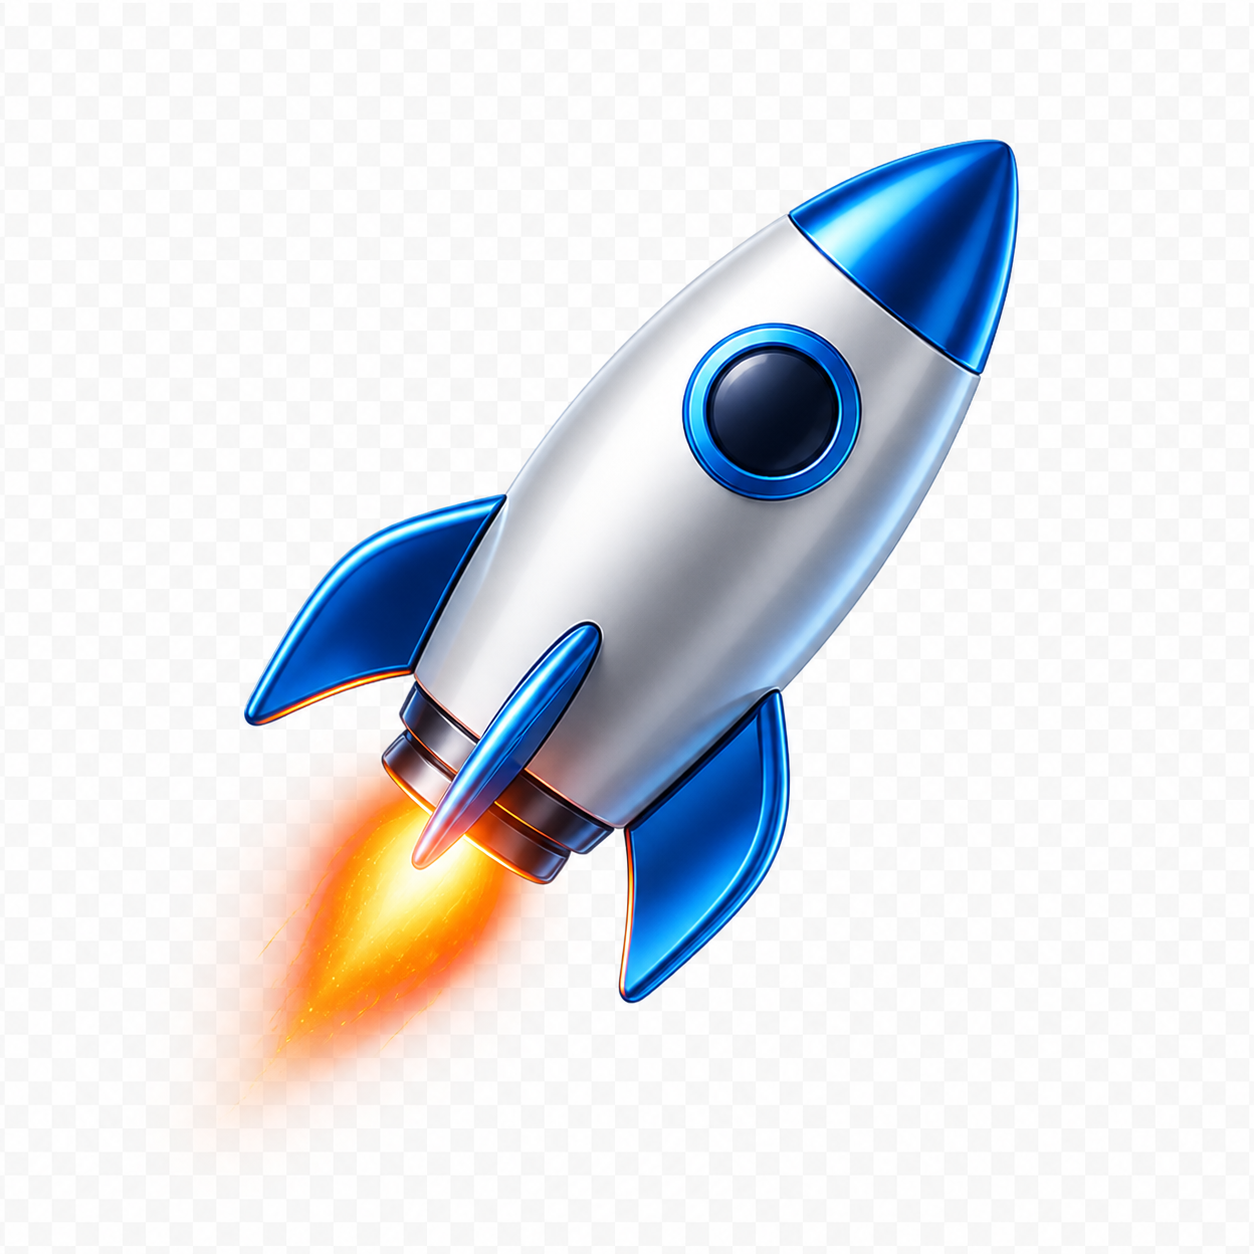
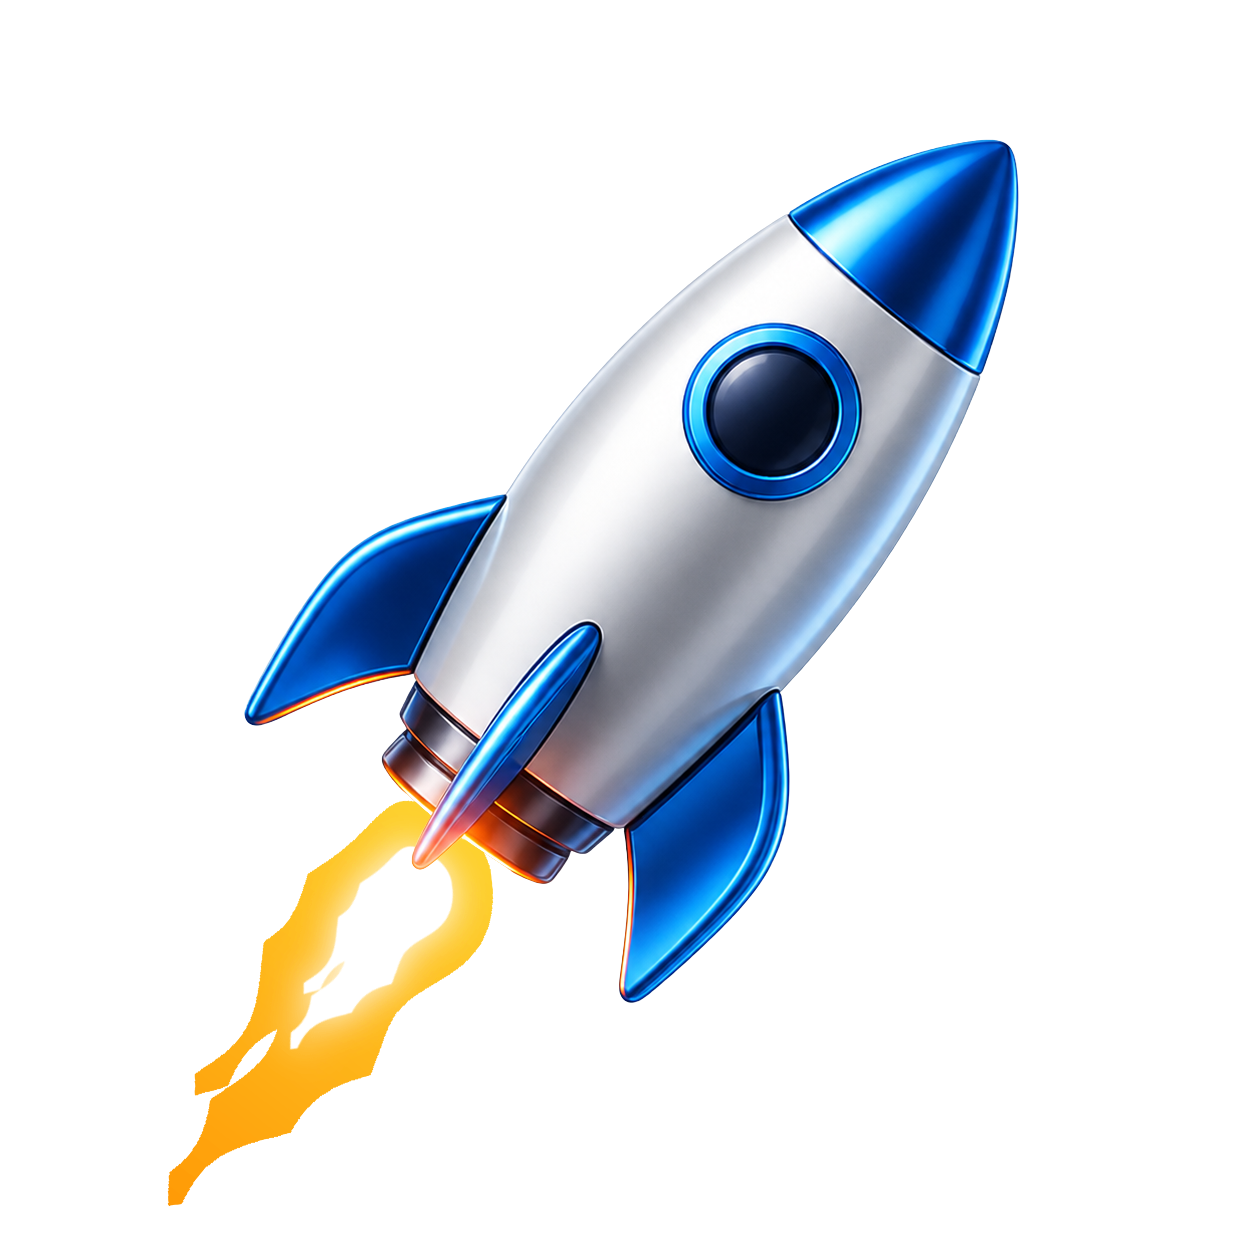
update img modal

Changed region(s): [[0.1244, 0.5909, 0.4354, 0.9641]]

diff --git a/src/components/Dashboard.tsx b/src/components/Dashboard.tsx
@@ -521,64 +521,63 @@ export default function Dashboard({
       className="fixed inset-0 z-[999] flex items-center justify-center p-4 overflow-hidden"
     >
       <div className="absolute inset-0 bg-[#0f172a]" />
-      {/* Animacje tła zostają bez zmian... */}
+      {/* BACKGROUND ANIMATIONS */}
       <motion.div animate={{ scale: [1, 1.2, 1], rotate: [0, 90, 0] }} transition={{ duration: 20, repeat: Infinity }} className="absolute -top-[20%] -left-[10%] w-[70%] h-[70%] bg-blue-600/30 rounded-full blur-[120px]" />
       <motion.div animate={{ scale: [1, 1.3, 1], rotate: [0, -90, 0] }} transition={{ duration: 15, repeat: Infinity, delay: 2 }} className="absolute -bottom-[20%] -right-[10%] w-[60%] h-[60%] bg-indigo-600/20 rounded-full blur-[120px]" />
 
       <motion.div 
-        initial={{ y: 50, opacity: 0, scale: 0.8, rotateX: 20 }}
-        animate={{ y: 0, opacity: 1, scale: 1, rotateX: 0 }}
-        exit={{ y: -50, opacity: 0, scale: 1.1 }}
-        transition={{ type: "spring", damping: 20 }}
-        className="relative max-w-2xl w-full bg-white/10 backdrop-blur-[40px] p-12 rounded-[4rem] shadow-[0_0_80px_rgba(0,0,0,0.5)] border border-white/20 text-center"
-        style={{ transformStyle: 'preserve-3d', perspective: '1000px' }}
+        initial={{ y: 50, opacity: 0, rotateX: 20 }}
+        animate={{ y: 0, opacity: 1, rotateX: 0 }}
+        className="relative max-w-2xl w-full bg-white/10 backdrop-blur-[30px] p-12 rounded-[4rem] shadow-2xl border border-white/20 text-center"
       >
-        {/* NOWY WYBÓR JĘZYKA Z FLAGAMI - Bardziej widoczny i luxury */}
-        <div className="flex justify-center gap-6 mb-10 pb-6 border-b border-white/10">
+        {/* PURE PNG LANGUAGE SWITCHER */}
+        <div className="flex justify-center gap-10 mb-12">
           {[
-            { lang: 'pl', flag: '/flaga_pl.jpg' }, // Ścieżka prosto do public
-            { lang: 'en', flag: '/flaga_en.jpg' }
+            { lang: 'pl', flag: '/flaga_pl.png' },
+            { lang: 'en', flag: '/flaga_en.png' }
           ].map((item) => (
             <motion.button
               key={item.lang}
-              whileHover={{ scale: 1.1, y: -2 }}
+              whileHover={{ scale: 1.15, y: -5 }}
               whileTap={{ scale: 0.95 }}
               onClick={() => i18n.changeLanguage(item.lang)}
-              className={`relative p-1 rounded-2xl transition-all ${
-                i18n.language === item.lang 
-                  ? 'bg-gradient-to-br from-blue-400 to-indigo-600 shadow-lg shadow-blue-500/30' 
-                  : 'bg-white/5 hover:bg-white/10 border border-white/10'
-              }`}
+              className="relative group p-2"
             >
               <img 
                 src={item.flag} 
                 alt={item.lang.toUpperCase()} 
-                className="w-16 h-10 object-cover rounded-xl shadow-inner border border-black/10"
+                // Czyste PNG z przezroczystością, bez kafelka i obramowania
+                className={`w-20 h-14 object-contain transition-all duration-300 ${
+                  i18n.language === item.lang 
+                    ? 'drop-shadow-[0_10px_25px_rgba(59,130,246,0.6)]' // Niebieski blask dla aktywnego
+                    : 'drop-shadow-[0_10px_20px_rgba(0,0,0,0.5)] group-hover:drop-shadow-[0_10px_25px_rgba(255,255,255,0.3)]'
+                }`}
               />
               {i18n.language === item.lang && (
                 <motion.div 
-                  layoutId="activeLang"
-                  className="absolute -bottom-2 -left-2 -right-2 h-1 bg-blue-400 rounded-full"
+                  layoutId="activeFlagBar"
+                  className="absolute -bottom-2 left-4 right-4 h-1 bg-blue-400 rounded-full"
                 />
               )}
             </motion.button>
           ))}
         </div>
 
-        {/* NOWA RAKIETA ZAMIAST EMOJI - W szklanym kontenerze z Twoimi animacjami */}
+        {/* PURE PNG ROCKET - FLOAT ANIMATION */}
         <motion.div 
-          animate={{ y: [0, -15, 0] }} 
-          transition={{ duration: 4, repeat: Infinity, ease: "easeInOut" }} 
-          className="w-32 h-32 bg-gradient-to-br from-white/5 to-white/10 rounded-[2.5rem] flex items-center justify-center mx-auto mb-10 shadow-2xl border border-white/20 overflow-hidden group"
+          animate={{ y: [0, -18, 0] }} 
+          transition={{ duration: 4.5, repeat: Infinity, ease: "easeInOut" }} 
+          className="mx-auto mb-12 drop-shadow-[0_30px_60px_rgba(37,99,235,0.4)]"
         >
           <img 
-            src="/rakieta_2.jpg" 
+            src="/rocket.png" 
             alt="Rocket" 
-            className="w-24 h-24 object-contain group-hover:scale-110 transition-transform duration-500" 
+            // Czyste PNG na przezroczystości, bez tła
+            className="w-40 h-40 object-contain mx-auto" 
           />
         </motion.div>
         
-        {/* Treści tekstowe i przycisk zostają bez zmian... */}
+        {/* TEXTS AND BUTTONS */}
         <h2 className="text-4xl md:text-5xl font-black text-white mb-6 tracking-tight">
           {t('welcome.title')} <span className="text-transparent bg-clip-text bg-gradient-to-r from-blue-400 to-emerald-400">{t('welcome.highlight')}</span>
         </h2>
@@ -595,7 +594,7 @@ export default function Dashboard({
           whileHover={{ scale: 1.02 }}
           whileTap={{ scale: 0.98 }}
           onClick={handleFinalClose}
-          className="group relative px-12 py-5 bg-blue-600 text-white rounded-full font-black text-xl shadow-xl"
+          className="px-12 py-5 bg-blue-600 text-white rounded-full font-black text-xl shadow-xl hover:shadow-blue-500/30 transition-shadow"
         >
           {t('welcome.button')}
         </motion.button>